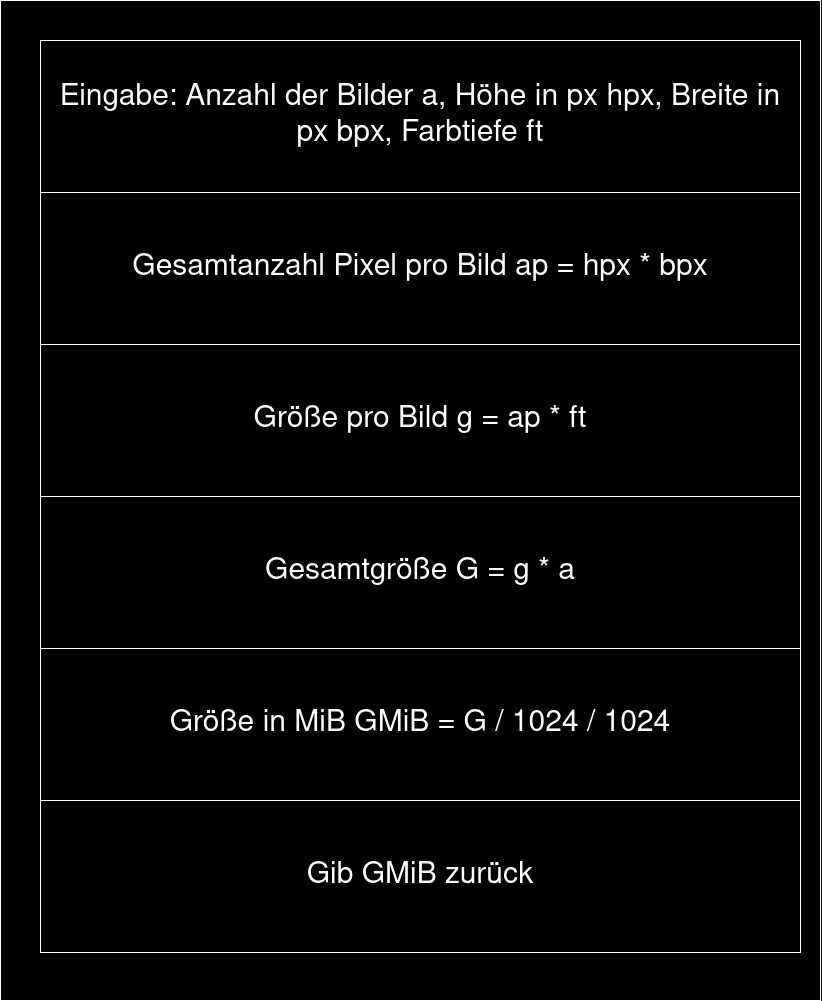
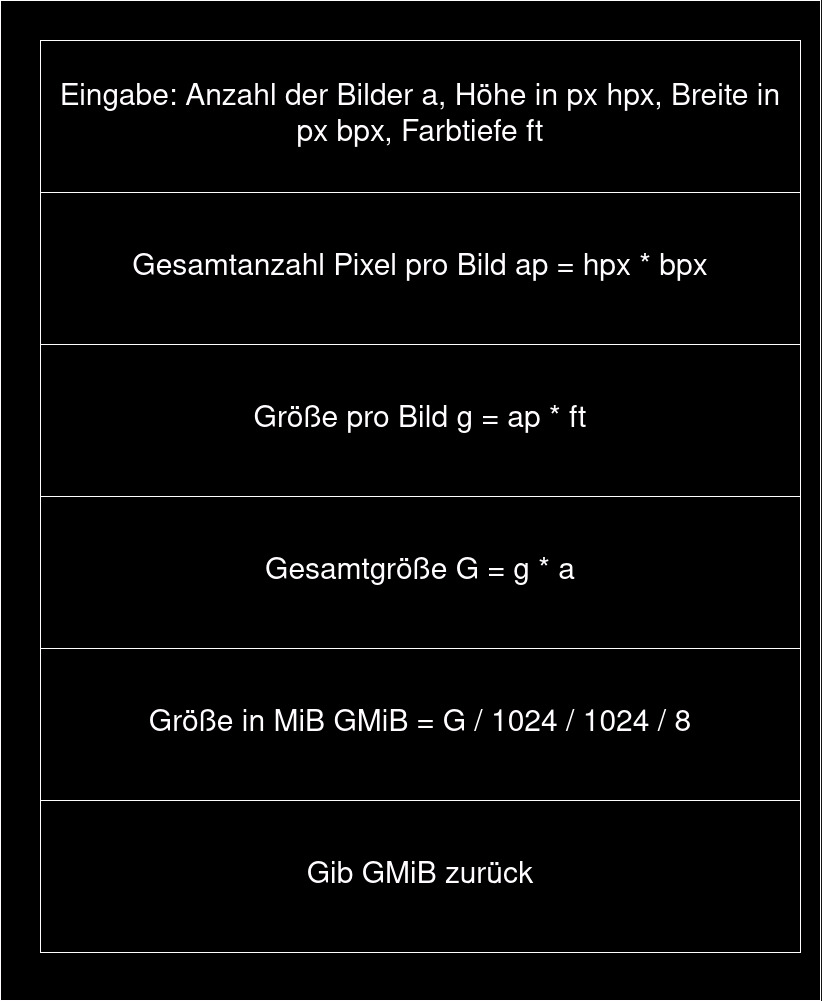
Überarbeitung

Changed region(s): [[0.1825, 0.6813, 0.8516, 0.7433]]

diff --git a/tack_manuel/S.254_Nr.4.py b/tack_manuel/S.254_Nr.4.py
@@ -2,7 +2,7 @@ def ImageSize(a, hpx, bpx, ft):
     ap = hpx * bpx
     g = ap * ft
     G = g * a
-    GMiB = round(G/1024/1024/8, 2)
+    GMiB = G/1024/1024/8, 2
     return GMiB
 
 #Testfälle
